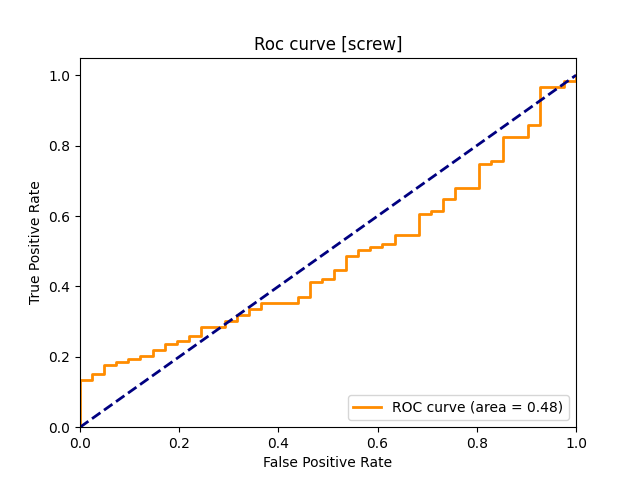
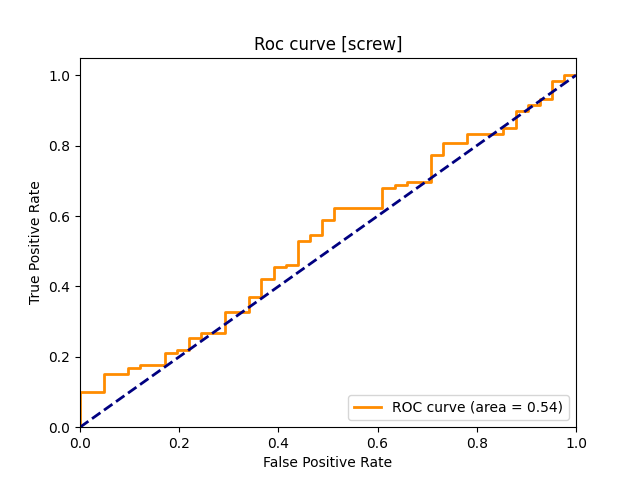
modifications 🔨

diff --git a/src/self_supervised/model.py b/src/self_supervised/model.py
@@ -15,11 +15,12 @@ from torch import Tensor
 class SSLModel(nn.Module):
     def __init__(self, 
                 num_classes:int,
-                seed:int=CONST.DEFAULT_SEED(),
+                num_epochs:int,
                 dims:array = CONST.DEFAULT_PROJECTION_HEAD_DIMS()):
         
         super().__init__()
-        self.seed = seed
+        #self.seed = seed
+        self.num_epochs = num_epochs
         self.num_classes = num_classes
         
         self.feature_extractor = self.setup_feature_extractor()
@@ -27,9 +28,9 @@ class SSLModel(nn.Module):
         self.classifier = nn.Linear(128, self.num_classes)
         
         self.localization = False
-        random.seed(seed)
-        np.random.seed(seed)
-        torch.random.manual_seed(seed)
+        #random.seed(seed)
+        #np.random.seed(seed)
+        #torch.random.manual_seed(seed)
 
     
     def setup_projection_head(self, dims):
@@ -57,6 +58,8 @@ class SSLModel(nn.Module):
             param.requires_grad = False
 
         fe.fc = nn.Identity()
+        for param in fe.fc.parameters():
+            param.requires_grad = True
         return fe
     
     
@@ -106,20 +109,21 @@ class SSLModel(nn.Module):
 class SSLM(pl.LightningModule):
     def __init__(
             self,
-            lr:float=CONST.DEFAULT_LEARNING_RATE(),
-            seed:int=CONST.DEFAULT_SEED()):
+            num_epochs:int=None,
+            lr:float=CONST.DEFAULT_LEARNING_RATE()):
         
         super(SSLM, self).__init__()
         self.save_hyperparameters()
         self.lr = lr
         self.num_classes = 3
-        self.seed = seed
+        self.num_epochs = num_epochs
+        #self.seed = seed
 
-        random.seed(seed)
-        np.random.seed(seed)
-        torch.random.manual_seed(seed)
+        #random.seed(seed)
+        #np.random.seed(seed)
+        #torch.random.manual_seed(seed)
         
-        self.model = SSLModel(self.num_classes)
+        self.model = SSLModel(self.num_classes, self.num_epochs)
         self.localization = False
     
     
@@ -195,7 +199,8 @@ class SSLM(pl.LightningModule):
 
     def configure_optimizers(self):
         optimizer = torch.optim.SGD(self.model.parameters(), self.lr, momentum=0.9, weight_decay=0.00003)
-        return optimizer
+        scheduler = torch.optim.lr_scheduler.CosineAnnealingWarmRestarts(optimizer, self.num_epochs)
+        return [optimizer], [scheduler]
 
 
 class MetricTracker(pl.Callback):

diff --git a/src/training.py b/src/training.py
@@ -44,7 +44,7 @@ def training_pipeline(
 
     
     print('>>> setting up the model')
-    pretext_model = SSLM(lr=lr, seed=seed)
+    pretext_model = SSLM(num_epochs=epochs, lr=lr)
     cb = MetricTracker()
     trainer = pl.Trainer(
         callbacks= [cb],
@@ -60,6 +60,9 @@ def training_pipeline(
     plot_history(cb.log_metrics, epochs, result_path)
     print('>>> start training (fine tune whole net)')
     pretext_model.lr = 0.00005
+    pretext_model.model.lr = 0.00005
+    pretext_model.num_epochs = 20
+    pretext_model.model.num_epochs = 20
     cb = MetricTracker()
     trainer = pl.Trainer(
         callbacks= [cb],
@@ -79,7 +82,7 @@ if __name__ == "__main__":
     results_dir = 'outputs/computations/'
     
     imsize= (256,256)
-    batch_size = 64
+    batch_size = 96
     train_val_split = 0.2
     seed = 0
     lr = 0.001
@@ -94,11 +97,7 @@ if __name__ == "__main__":
         'epochs': epochs
     }
     experiments = [
-        'bottle',
-        'grid',
         'screw',
-        'tile',
-        'toothbrush'
     ]
     pbar = tqdm(range(len(experiments)))
     for i in pbar:

diff --git a/src/self_supervised/datasets.py b/src/self_supervised/datasets.py
@@ -253,7 +253,7 @@ class GenerativeDatamodule(pl.LightningDataModule):
         return DataLoader(
             self.train_dataset, 
             batch_size=self.batch_size, 
-            shuffle=False,
+            shuffle=True,
             drop_last=True,
             num_workers=CONST.DEFAULT_NUM_WORKERS())
 

diff --git a/src/inference.py b/src/inference.py
@@ -182,11 +182,7 @@ if __name__ == "__main__":
     }
     
     experiments = [
-        'bottle',
-        'grid',
-        'screw',
-        'tile',
-        'toothbrush'
+        'screw'
     ]
     
     pbar = tqdm(range(len(experiments)))
